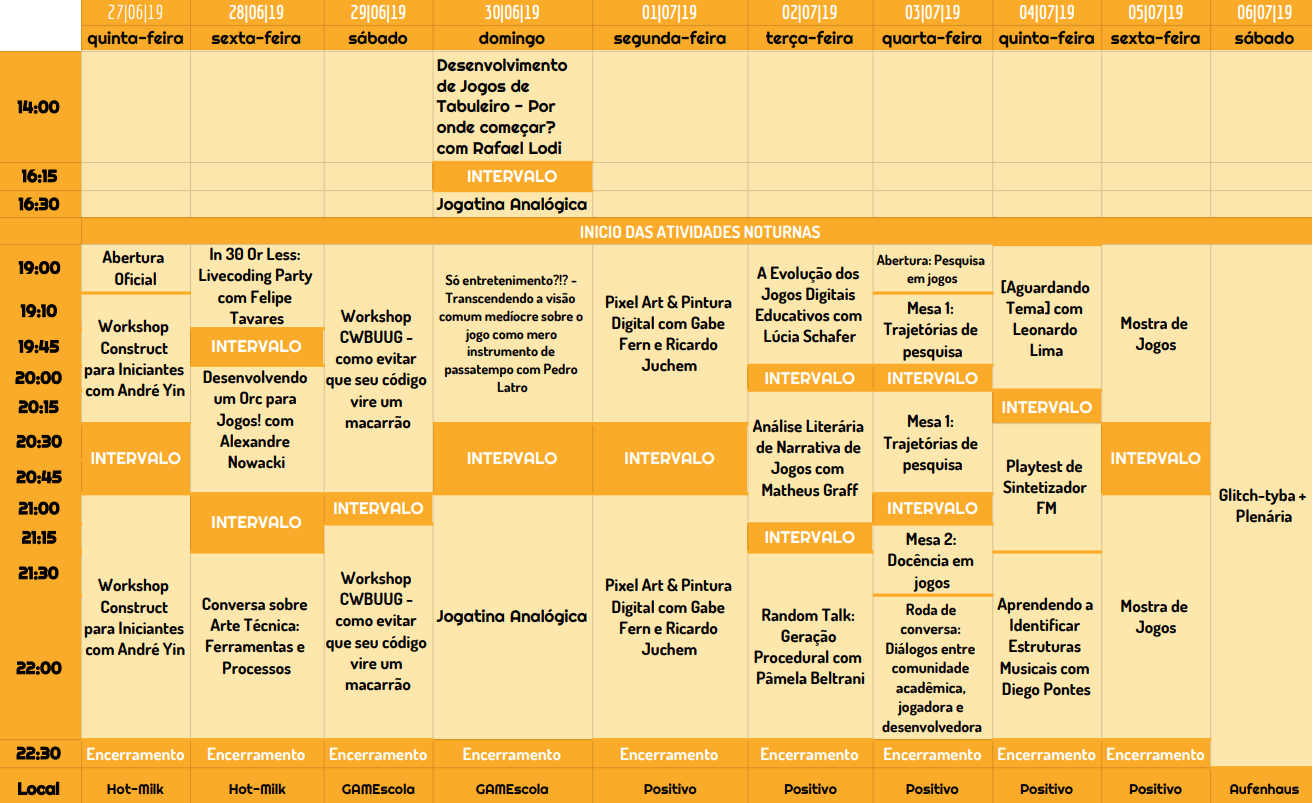
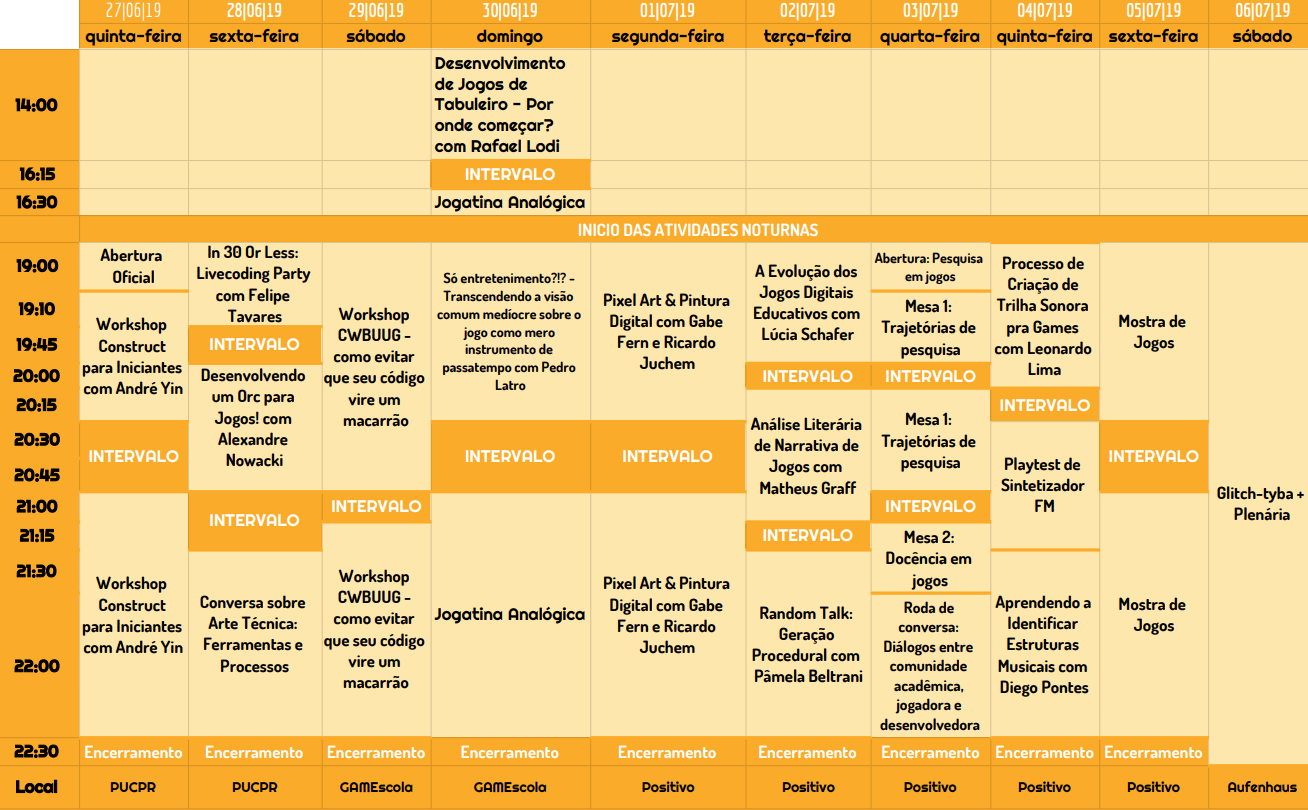
Atualização da Localização do evento

Changed region(s): [[0.0, 0.0, 1.0, 0.9963], [0.0, 0.1245, 0.0612, 0.1557]]

diff --git a/README.md b/README.md
@@ -10,7 +10,7 @@ O Glitch Mundo é um espaço seguro e aberto de jogos e experiências interativa
 
 # Agora
 
-O Glitch-tyba Mundo 2019.01 vai acontecer entre os dias 20/06 e 06/06 em três lugares: [Hot&#x2011;Milk](https://goo.gl/maps/X9yA3coWWSpGA8Wg8), [GAMEscola](https://goo.gl/maps/fGSc3sM7e4MgSamLA), [Universidade Positivo Unidade Praça Santos Andrade](https://goo.gl/maps/vvwv7NsuvL7Qk25A6). O evento é aberto à todos e terá entrada franca.
+O Glitch-tyba Mundo 2019.01 vai acontecer entre os dias 20/06 e 06/06 em três lugares: [PUCPR](https://goo.gl/maps/bRVkD1iZxAZDp5FM6), [GAMEscola](https://goo.gl/maps/fGSc3sM7e4MgSamLA), [Universidade Positivo Unidade Praça Santos Andrade](https://goo.gl/maps/vvwv7NsuvL7Qk25A6). O evento é aberto à todos e terá entrada franca.
 
 <strong>
   <a href="https://forms.gle/MZTMQpMf7E6h3KKFA" style="margin: 2em 1em; padding: 1em; border: 1px solid #ca6; display: block; border-radius: 0.5em; background: #fc5; text-align: center; text-transform: uppercase; color: white; box-shadow: 0 0 1em rgba(128, 128, 128, 0.2)">
@@ -92,7 +92,7 @@ O Glitch-tyba Mundo 2019.01 vai acontecer entre os dias 20/06 e 06/06 em três l
 | Encerramento                |            | 22:30 h |
 
 ## <a name="3d">Dia 28/06: Arte 3D & VFX</a>
-**Local: [PUCPR](https://goo.gl/maps/bRVkD1iZxAZDp5FM6), Bloco Azul, sala JAC4AC**
+**Local: [PUCPR](https://goo.gl/maps/bRVkD1iZxAZDp5FM6), Bloco Azul, sala JAC4AC.**
 
 | Evento                                               | Convidad@s        | Horário |
 |------------------------------------------------------|-------------------|---------|
